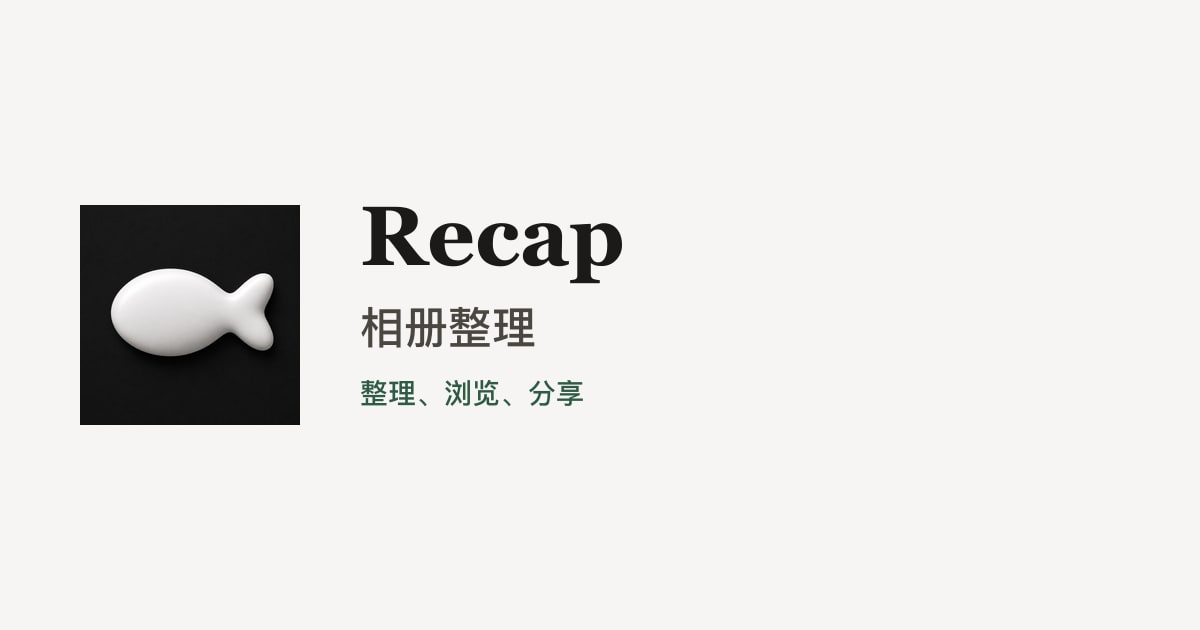
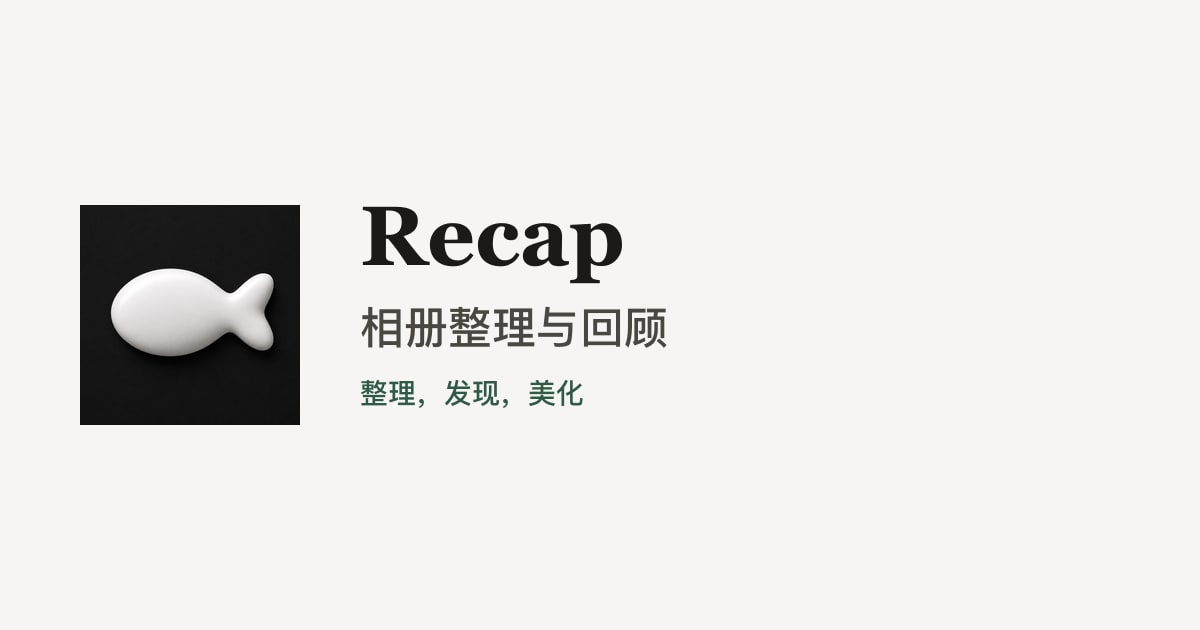
Apply the final App Store name, subtitle and keywords
- Name: "Recap – Your Weekly Photos" / "Recap - 相册整理与回顾"; subtitle:
  "Organize, Explore, Share" / "整理，发现，美化"; keywords grouped as
  Organize, Explore and Frame, kept in `aso`.
- Home titles, meta keywords, JSON-LD, llms files and both share images
  follow; the site description is now the app name and the footer shows
  the subtitle.
- Work the keywords into the page copy (photo frame now means instant
  prints) and document the final set in docs/aso.md.

Changed region(s): [[0.4317, 0.4825, 0.555, 0.573], [0.37, 0.6032, 0.4933, 0.6635]]

diff --git a/src/data/site.ts b/src/data/site.ts
@@ -37,20 +37,22 @@ export function localPath(locale: Locale, page = '') {
   return withBase(sitePath(locale, page));
 }
 
-/** ASO (draft, still being worked out): the App Store name and subtitle, then keywords grouped as
- * Organize / Explore / Share. Page titles, meta keywords, structured data and llms files read from here. */
+/** ASO, final: the App Store name and subtitle in each language, then keywords grouped as Organize / Explore / Frame
+ * (English and Chinese in the same order). Page titles, meta keywords, structured data, llms files and the share images
+ * (scripts/og-images.mjs) follow this. Background and the keyword map: docs/aso.md. */
 export const aso = {
-  appName: 'Recap – Photo Organizer',
-  subtitle: { en: 'Organize, Explore, Share', zh: '整理、浏览、分享' },
+  appName: { en: 'Recap – Your Weekly Photos', zh: 'Recap - 相册整理与回顾' },
+  subtitle: { en: 'Organize, Explore, Share', zh: '整理，发现，美化' },
   keywords: {
     en: [
       // Organize
       'photo organizer', 'weekly photo organizer', 'auto photo organizer',
       // Explore
-      'photo memories', 'photo frame', 'photo shuffle',
-      // Share: to come
+      'photo memories', 'photo shuffle',
+      // Frame
+      'photo frame',
     ],
-    zh: ['相册整理', '按周回顾', '自动整理'],
+    zh: ['相册整理', '每周照片回顾', '自动整理', '回忆相册', '随机看照片', '拍立得相框'],
   },
 } as const;
 
@@ -72,9 +74,10 @@ export const pricing = {
 export const copy = {
   en: {
     lang: 'en', otherLanguage: '简体中文', otherLanguageShort: '中', languageLabel: 'Switch to Simplified Chinese', languageMenuLabel: 'Language', themeLabel: 'Theme', themeDark: 'Dark theme', themeLight: 'Light theme',
-    title: 'Recap – Photo Organizer: Organize, Explore, Share',
-    description: 'Recap is a weekly photo organizer for iPhone and iPad: an auto photo organizer for your library, with photo memories, a photo shuffle frame and easy sharing.',
-    ogImageAlt: 'Recap – Photo Organizer: Organize, Explore, Share, beside the Recap app icon',
+    title: 'Recap – Your Weekly Photos: Organize, Explore, Share',
+    // The site description is the App Store name, so search results read like the store listing (docs/aso.md).
+    description: aso.appName.en,
+    ogImageAlt: 'Recap – Your Weekly Photos: Organize, Explore, Share, beside the Recap app icon',
     installFaqAnswer: 'Open the public invitation using a TestFlight button on this page. Install Apple’s TestFlight, accept the invitation, then install Recap. TestFlight availability is managed by Apple and the developer.',
     creditsDescription: 'Apart from the island photos at the top of the home page, in the iPhone Duo screen and in Shuffle Mode, every travel, theme, and demo photograph on this site is sourced from Unsplash.',
     skip: 'Skip to content',
@@ -134,12 +137,12 @@ export const copy = {
     ],
     browse: {
       title: ['Looking back should be fun.', 'Three new ways to explore.'],
-      body: 'Explore your photo memories: shuffle the whole library in a photo frame, turn photos into instant prints, and step back into the same week years ago.',
+      body: 'Explore your photo memories: photo shuffle across the whole library, instant prints in a photo frame of your own, and the same week years ago.',
       absolute: 'Part of Absolute',
       shuffleBar: { label: 'On the road', change: 'Show Another Set' },
       items: [
         { id: 'random', label: 'Shuffle Mode', title: 'Turn your iPhone into a photo frame.', body: 'Tap Shuffle Mode and turn your iPhone sideways. A photo shuffle of your whole library lays itself out and keeps turning up moments you’d almost forgotten.', absolute: true },
-        { id: 'print', label: 'Instant prints', title: 'Turn photos into instant prints.', body: 'Pick a frame color, write a line, then flip it over for the time and place. Try it right here.', absolute: false },
+        { id: 'print', label: 'Instant prints', title: 'Turn photos into instant prints.', body: 'Pick a photo frame color, write a line, then flip it over for the time and place. Try it right here.', absolute: false },
         { id: 'past', label: 'This week in past years', title: 'Back to this week, last year.', body: 'Turn the year wheel back to the same week one, two or three years ago, and the photo memories from that week come back.', absolute: true },
       ],
       print: {
@@ -231,7 +234,6 @@ export const copy = {
     },
     closingTitle: ['For every day', 'worth a second look.'],
     footer: {
-      tagline: 'Organize, explore and share every week of photos.',
       product: 'Product', support: 'Install & help', legal: 'Legal', install: 'Install', made: 'Made with', love: 'love',
     },
     privacy: 'Privacy Policy', terms: 'Terms of Service', contact: 'Contact', credits: 'Photo credits',
@@ -249,9 +251,9 @@ export const copy = {
   },
   zh: {
     lang: 'zh-CN', otherLanguage: 'English', otherLanguageShort: 'EN', languageLabel: '切换为英文', languageMenuLabel: '语言', themeLabel: '主题', themeDark: '深色', themeLight: '浅色',
-    title: 'Recap – 相册整理：按周回顾，自动整理照片',
-    description: 'Recap 相册整理 App：按周回顾，按地点和内容自动整理照片，重温照片回忆，把手机变成随机播放的相框，一键分享。全程在设备上完成，适用于 iPhone 与 iPad。',
-    ogImageAlt: 'Recap 相册整理：整理、浏览、分享，配 Recap 应用图标',
+    title: 'Recap - 相册整理与回顾：整理，发现，美化',
+    description: aso.appName.zh,
+    ogImageAlt: 'Recap - 相册整理与回顾：整理，发现，美化，配 Recap 应用图标',
     installFaqAnswer: '点击页面上的 TestFlight 按钮，打开公开邀请。安装 Apple TestFlight、接受邀请后，即可安装 Recap。名额和可用性由 Apple 与开发者管理。',
     creditsDescription: '除首屏、iPhone Duo 屏幕和随机模式里的海岛照片外，本站旅行、主题和演示照片均来自 Unsplash。',
     skip: '跳到正文',
@@ -259,9 +261,9 @@ export const copy = {
     join: '在 TestFlight 体验', pending: 'TestFlight 邀请准备中',
     heroLines: ['你的{0}回忆，', '一周又{1}一周。'],
     heroBadge: 'Recap 现已适配 iPhone Duo',
-    heroDescription: '相册自动整理，按周回顾照片，轻松分享，每一周的照片都有去处。',
+    heroDescription: '相册自动整理，每周照片回顾，轻松分享，每一周的照片都有去处。',
     heroNote: '适用于 iPhone 与 iPad，照片只留在你的设备上。',
-    chapters: { sort: '整理', browse: '浏览', share: '分享', stats: '统计' },
+    chapters: { sort: '整理', browse: '发现', share: '分享', stats: '统计' },
     featuresIntro: {
       title: ['几万张照片，找不到想要的那张。', 'Recap 自动帮你整理好。'],
       body: '相册整理交给 Recap：按周、按地点、按内容自动整理，清掉重复的照片，想找哪张直接问助手，不用自己建相册。',
@@ -270,7 +272,7 @@ export const copy = {
     },
     features: [
       {
-        id: 'week', label: '按周回顾', icon: 'calendar',
+        id: 'week', label: '每周回顾', icon: 'calendar',
         title: ['照片越拍越多，越翻越乱。', 'Recap 按周帮你收好。'],
         body: '每一周一张卡片，最新的在最上面。往下翻，每一周都还在。',
         states: ['本周 · 18 张', '第 44 周 · 12 张', '第 43 周 · 12 张'],
@@ -311,12 +313,12 @@ export const copy = {
     ],
     browse: {
       title: ['回看照片，也可以很好玩。', '三种新的翻相册方式。'],
-      body: '把整个相册随机播放成相框，把照片做成拍立得，再回到往年的同一周，重温照片回忆。',
+      body: '整个相册随机看照片，把喜欢的做成拍立得相框，再回到往年的同一周，翻开回忆相册。',
       absolute: 'Absolute 功能',
       shuffleBar: { label: '旅途风景', change: '换一组' },
       items: [
-        { id: 'random', label: '随机模式', title: '把手机变成相框。', body: '点一下随机模式，把手机横过来。整个相册随机播放，照片自己铺开、自己翻页，翻出那些差点忘记的瞬间。', absolute: true },
-        { id: 'print', label: '拍立得', title: '把照片变成拍立得。', body: '换一种边框颜色，写一句话，再翻到背面看时间和地点。就在这里试试。', absolute: false },
+        { id: 'random', label: '随机模式', title: '把手机变成相框。', body: '点一下随机模式，把手机横过来随机看照片：整个相册自己铺开、自己翻页，翻出那些差点忘记的瞬间。', absolute: true },
+        { id: 'print', label: '拍立得', title: '把照片变成拍立得。', body: '换一种拍立得相框颜色，写一句话，再翻到背面看时间和地点。就在这里试试。', absolute: false },
         { id: 'past', label: '往年同周', title: '回到去年的这一周。', body: '拨动年份，回到一年前、两年前、三年前的同一周。', absolute: true },
       ],
       print: {
@@ -408,7 +410,6 @@ export const copy = {
     },
     closingTitle: ['为每一个', '想再看一眼的日子。'],
     footer: {
-      tagline: '整理、浏览、分享，每一周的照片。',
       product: '产品', support: '安装与帮助', legal: '法律', install: '安装', made: 'Made with', love: 'love',
     },
     privacy: '隐私政策', terms: '服务条款', contact: '联系', credits: '照片来源',

diff --git a/src/data/llms.ts b/src/data/llms.ts
@@ -85,11 +85,11 @@ function section(locale: Locale) {
 
 export function llmsFull() {
   return [
-    `# ${aso.appName}`,
+    `# ${aso.appName.en}`,
     '',
     `> ${copy.en.description}`,
     '',
-    `App Store subtitle: ${aso.subtitle.en} (${aso.subtitle.zh}). Keywords: ${aso.keywords.en.join(', ')}; ${aso.keywords.zh.join('、')}.`,
+    `App Store name: ${aso.appName.en} (${aso.appName.zh}). Subtitle: ${aso.subtitle.en} (${aso.subtitle.zh}). Keywords: ${aso.keywords.en.join(', ')}; ${aso.keywords.zh.join('、')}.`,
     '',
     `Developer: ${site.developer.name} (${site.developer.url}). Support: ${site.contactEmail}.`,
     '',

diff --git a/src/data/seo.ts b/src/data/seo.ts
@@ -73,7 +73,7 @@ export function structuredData(locale: Locale, page: string, title: string, desc
   const app = {
     '@type': ['SoftwareApplication', 'MobileApplication'],
     '@id': `${origin}/#application`,
-    name: aso.appName,
+    name: aso.appName[locale],
     alternateName: 'Recap',
     slogan: aso.subtitle[locale],
     keywords: aso.keywords[locale].join(', '),

diff --git a/changelog.md b/changelog.md
@@ -1,5 +1,11 @@
 # Changelog
 
+## 2026-11-25
+
+- 页脚标语改为直接显示副标题（英文「Organize, Explore, Share」、中文「整理，发现，美化」，读取 `aso.subtitle`）；网站描述改为 App 名称（英文「Recap – Your Weekly Photos」、中文「Recap - 相册整理与回顾」），meta description、Open Graph / Twitter 描述、JSON-LD `description` 与 `llms-full.txt` 摘要随之变化；其他页面（更新日志、联系、法律页）的描述不变。`docs/aso.md` 同步。
+- App Store 名称、副标题与关键词定稿并同步到官网：名称英文「Recap – Your Weekly Photos」、中文「Recap - 相册整理与回顾」；副标题英文「Organize, Explore, Share」、中文「整理，发现，美化」；关键词按 Organize（photo organizer / 相册整理、weekly photo organizer / 每周照片回顾、auto photo organizer / 自动整理）、Explore（photo memories / 回忆相册、photo shuffle / 随机看照片）、Frame（photo frame / 拍立得相框）分组。`site.ts` 的 `aso` 改为中英文名称各一份，首页标题、meta description、meta keywords、JSON-LD（`name` 按语言）、`llms.txt` / `llms-full.txt` 与中英文分享图同步；新增 `docs/aso.md` 记录定稿与用到的位置，README 加链接。
+- 页面文案配合：photo frame 改为指拍立得，英文发现章节导语与拍立得说明加入 photo frame，随机模式保留 photo shuffle；中文章节「浏览」改为「发现」，第一张卡标签「按周回顾」改为「每周回顾」，首屏说明用「每周照片回顾」，发现章节导语、随机模式与拍立得说明改用「随机看照片」「拍立得相框」「回忆相册」；页脚标语改为新副标题。验证：`astro check` 0 错误，构建与 verify 通过，目视检查两张分享图。
+
 ## 2026-11-24
 
 - 更新日志新增 v0.1 (264)「Recap 助手、清理与全新引导」（中英文），按 Recap 主仓库 11-03 之后的提交整理：助手按日期、季节、节日、时段、地点搜索并支持 Siri，清理相似照片，实时活动显示整理进度，往年同周切换年份，Duo 与 iPad 分栏照片详情，首次打开可先浏览示例图库。中间的 TestFlight 构建号未在仓库中留痕，合并为一条。

diff --git a/docs/aso.md b/docs/aso.md
@@ -1,0 +1,33 @@
+# App Store 名称、副标题与关键词（ASO）
+
+2026-11-25 定稿。官网代码里的唯一来源是 `src/data/site.ts` 的 `aso`；改动时同步更新本文和 `scripts/og-images.mjs`，再重新生成分享图。
+
+## 名称与副标题
+
+| | 英文 | 中文 |
+| --- | --- | --- |
+| App 名称 | Recap – Your Weekly Photos | Recap - 相册整理与回顾 |
+| 副标题 | Organize, Explore, Share | 整理，发现，美化 |
+
+## 关键词
+
+| 分组 | 英文 | 中文 |
+| --- | --- | --- |
+| Organize | photo organizer | 相册整理 |
+| Organize | weekly photo organizer | 每周照片回顾 |
+| Organize | auto photo organizer | 自动整理 |
+| Explore | photo memories | 回忆相册 |
+| Explore | photo shuffle | 随机看照片 |
+| Frame | photo frame | 拍立得相框 |
+
+`photo frame` / 拍立得相框 指拍立得（相纸边框）功能，不是随机模式。
+
+## 官网里用到的位置
+
+- 首页 `<title>`：`App 名称：副标题`（中文页用中文名称与副标题）。
+- 网站描述（meta description、Open Graph / Twitter 描述、JSON-LD `description`、`llms-full.txt` 摘要）：当前语言的 App 名称。
+- 首页 `meta keywords`：各自语言的关键词。
+- 首页 JSON-LD（`src/data/seo.ts`）：`name` 为当前语言的 App 名称，`alternateName` 为 Recap，`slogan` 为副标题，`keywords` 为关键词。
+- `public/llms.txt`（手写）与 `/llms-full.txt`（`src/data/llms.ts` 生成）：中英文名称、副标题与关键词。
+- 分享图 `public/og-home.jpg` / `og-home-zh.jpg`：Recap、名称后半段与副标题，用 `node scripts/og-images.mjs` 生成。
+- 页面文案：首屏说明（photo organizer / 每周照片回顾）、整理章节（auto photo organizer / 相册整理、weekly photo organizer）、发现章节（photo memories / 回忆相册、photo shuffle / 随机看照片、photo frame / 拍立得相框）、页脚标语直接用副标题（`aso.subtitle`）。英文章节标签为 Organize / Explore / Share / Stats，中文为 整理 / 发现 / 分享 / 统计。

diff --git a/README.md b/README.md
@@ -52,4 +52,5 @@ GitHub 仓库 `Jeffery-Ho/Recap-landing` 的 `main` 分支连接 Vercel 项目 `
 - [实施 TODO](docs/landing-page-todo.md)
 - [素材来源与功能证据](docs/asset-sources.md)
 - [验收记录](docs/validation.md)
+- [App Store 名称、副标题与关键词](docs/aso.md)
 - [更新记录](changelog.md)
